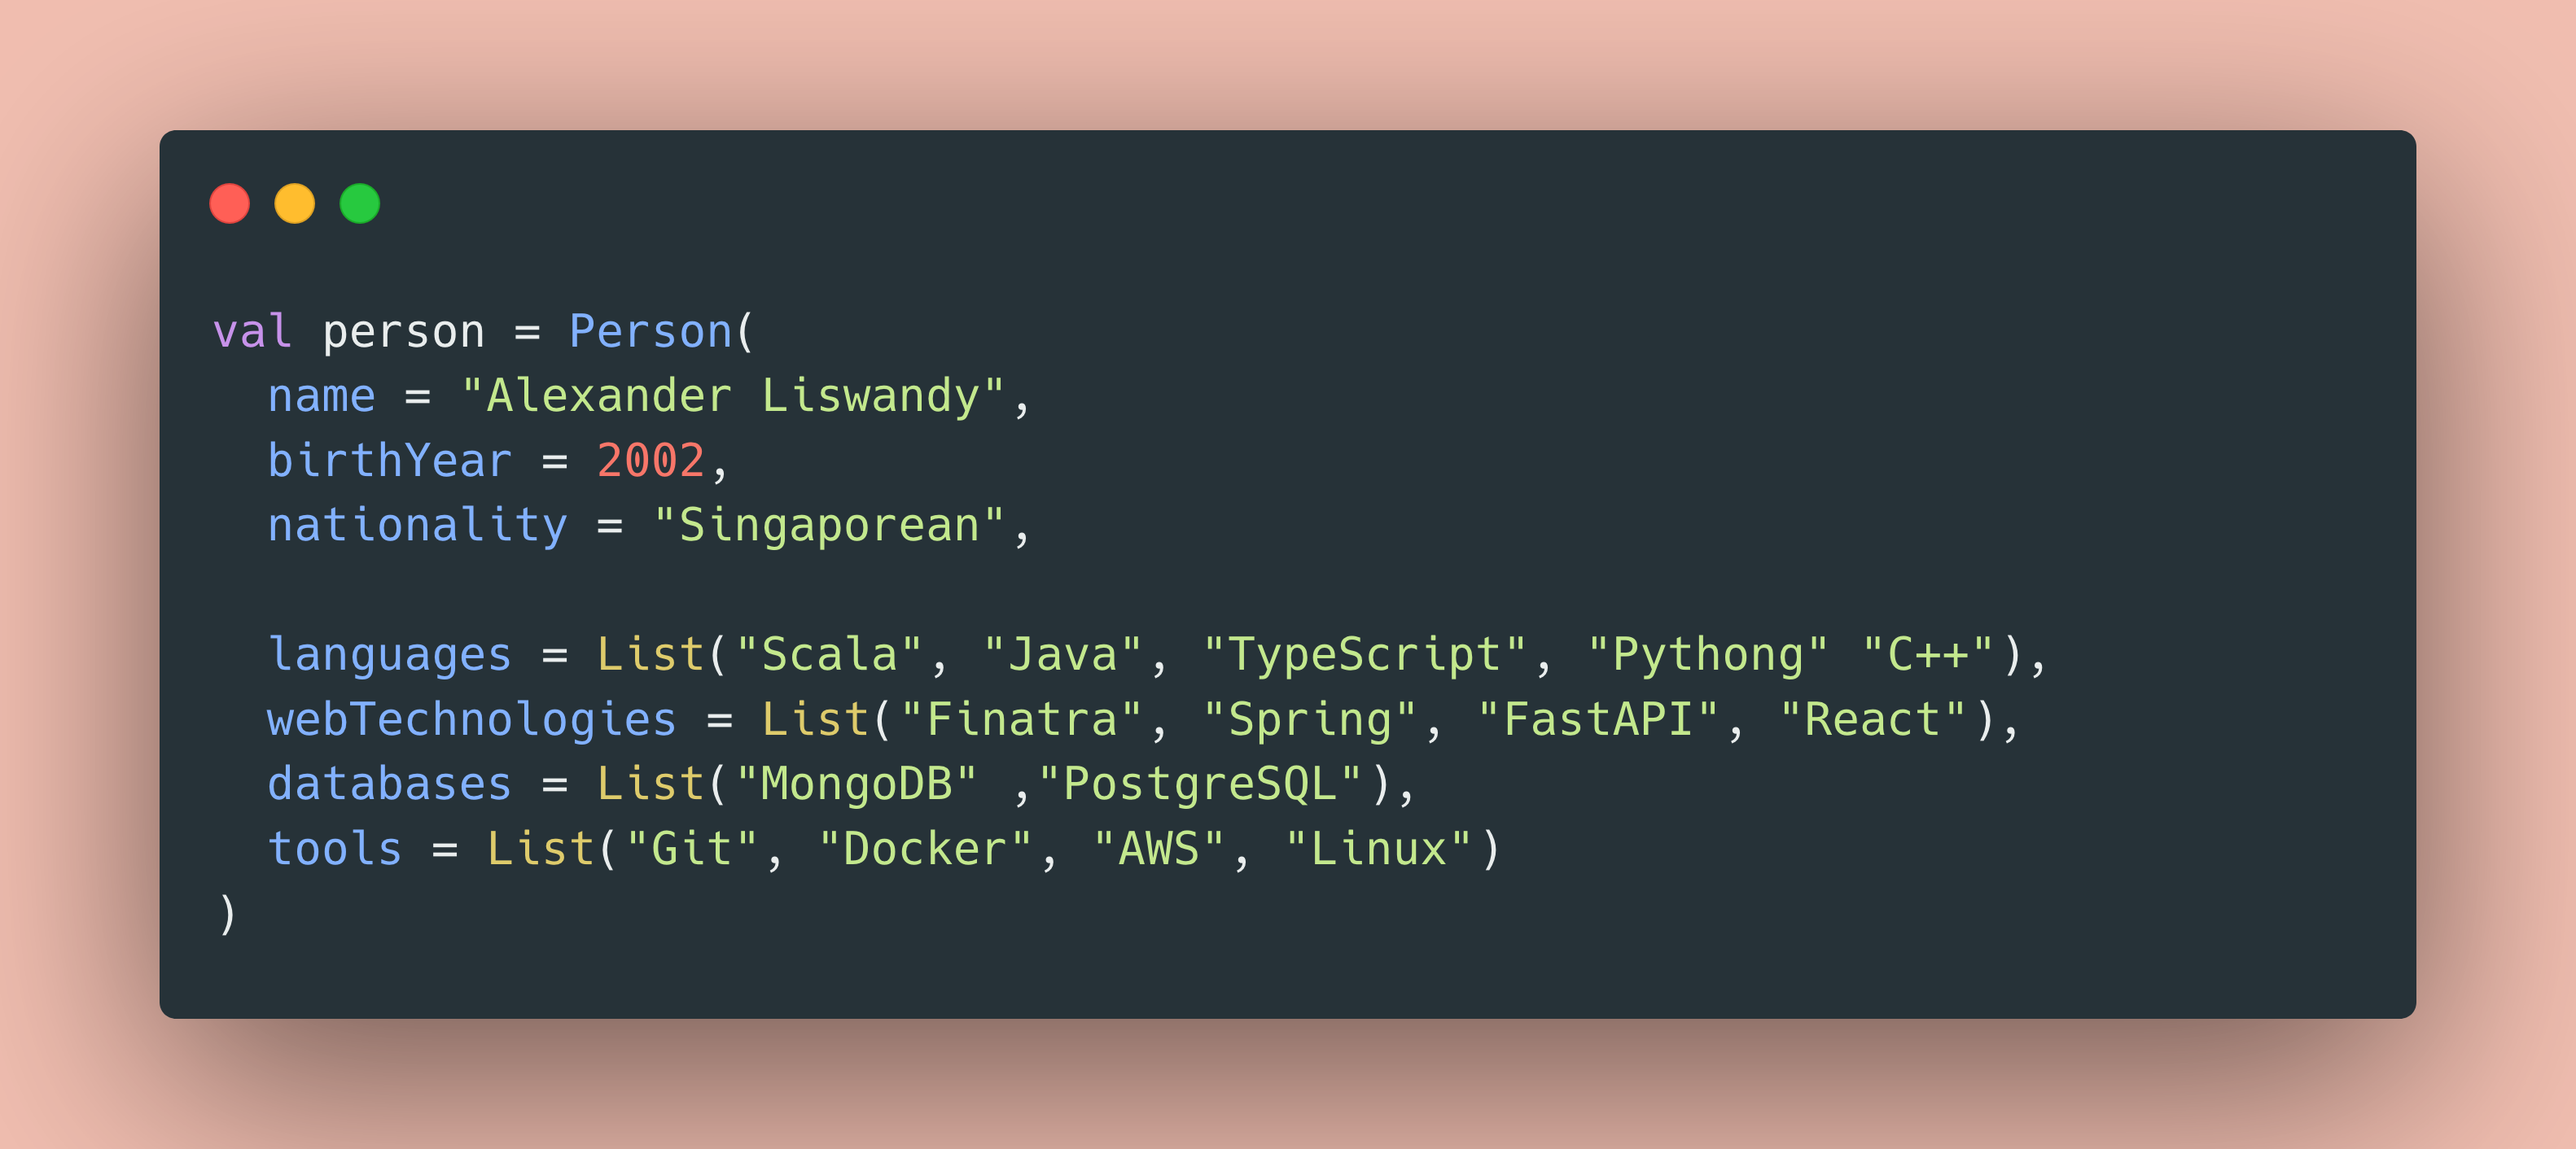
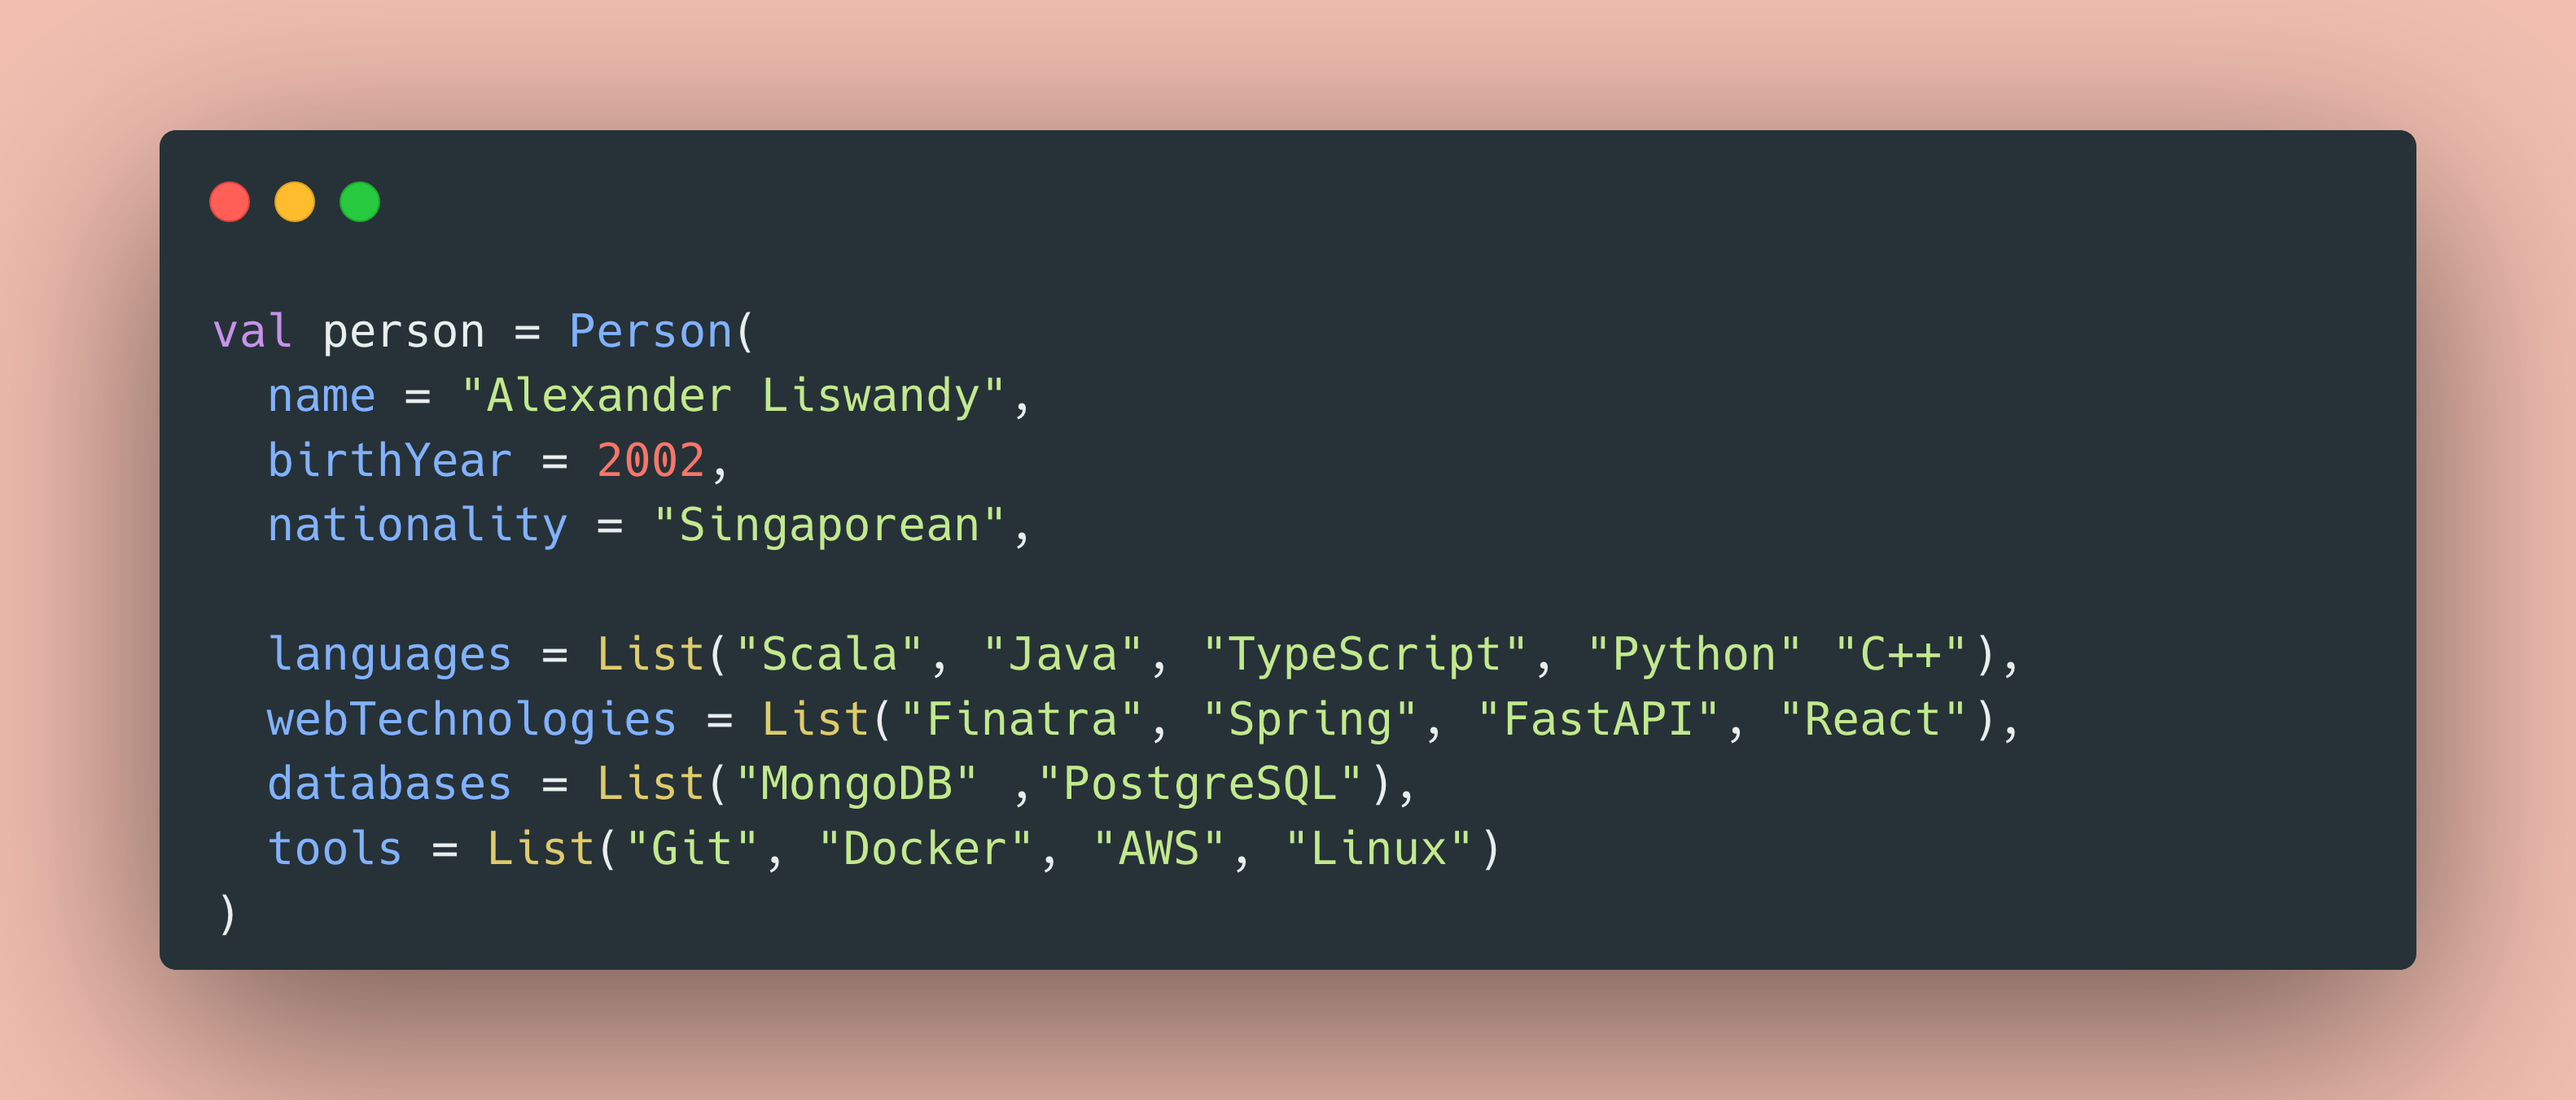
Fix typo

diff --git a/README.md b/README.md
@@ -15,4 +15,4 @@ Focuses of this personal project:
 4. Gain additional experience in front-end development
 
 ## References / Links
-[Carbon image](https://carbon.now.sh/?bg=rgba%28241%2C190%2C176%2C1%29&t=material&wt=none&l=javascript&width=791&ds=true&dsyoff=19px&dsblur=68px&wc=true&wa=false&pv=40px&ph=49px&ln=false&fl=1&fm=Hack&fs=14px&lh=142%25&si=false&es=4x&wm=false&code=let%2520person%2520%253D%2520%257B%250A%2509name%253A%2520%2522Alexander%2520Liswandy%2522%252C%250A%2520%2520%2509birthyear%253A%25202002%252C%250A%2520%2520%2509nationality%253A%2520%2522Singaporean%2522%252C%250A%2520%250A%2509languages%253A%2520%255B%2522JavaScript%2522%252C%2520%2522Python%2522%252C%2520%2522C%252B%252B%2522%252C%2520%2522HTML%2522%252C%2520%2522CSS%2522%255D%252C%250A%2520%2520%2509web%253A%2520%255B%2522React%2522%252C%2520%2522Flask%2522%252C%2520%2522APIs%2522%255D%252C%250A%2520%2520%2509databases%253A%2520%255B%2522SQL%2522%252C%2520%2522MongoDB%2522%255D%252C%250A%2520%2520%2509misc%253A%2520%255B%2522Git%2522%252C%2520%2522Raspberry%2520Pi%2522%252C%2520%2522Soldering%2522%252C%2520%2522PC%2520Building%2522%255D%250A%257D)
+[Carbon image](https://carbon.now.sh/?bg=rgba%28241%2C190%2C176%2C1%29&t=material&wt=none&l=text%2Fx-scala&width=791&ds=true&dsyoff=19px&dsblur=68px&wc=true&wa=false&pv=40px&ph=49px&ln=false&fl=1&fm=Hack&fs=14px&lh=142%25&si=false&es=4x&wm=false&code=val%2520person%2520%253D%2520Person%28%250A%2520%2520name%2520%253D%2520%2522Alexander%2520Liswandy%2522%252C%250A%2520%2520birthYear%2520%253D%25202002%252C%250A%2520%2520nationality%2520%253D%2520%2522Singaporean%2522%252C%250A%2520%2520%250A%2520%2520languages%2520%253D%2520List%28%2522Scala%2522%252C%2520%2522Java%2522%252C%2520%2522TypeScript%2522%252C%2520%2522Pythong%2522%2520%2522C%252B%252B%2522%29%252C%250A%2520%2520webTechnologies%2520%253D%2520List%28%2522Finatra%2522%252C%2520%2522Spring%2522%252C%2520%2522FastAPI%2522%252C%2520%2522React%2522%29%252C%250A%2520%2520databases%2520%253D%2520List%28%2522MongoDB%2522%2520%252C%2522PostgreSQL%2522%29%252C%250A%2520%2520tools%2520%253D%2520List%28%2522Git%2522%252C%2520%2522Docker%2522%252C%2520%2522AWS%2522%252C%2520%2522Linux%2522%29%250A%29)
